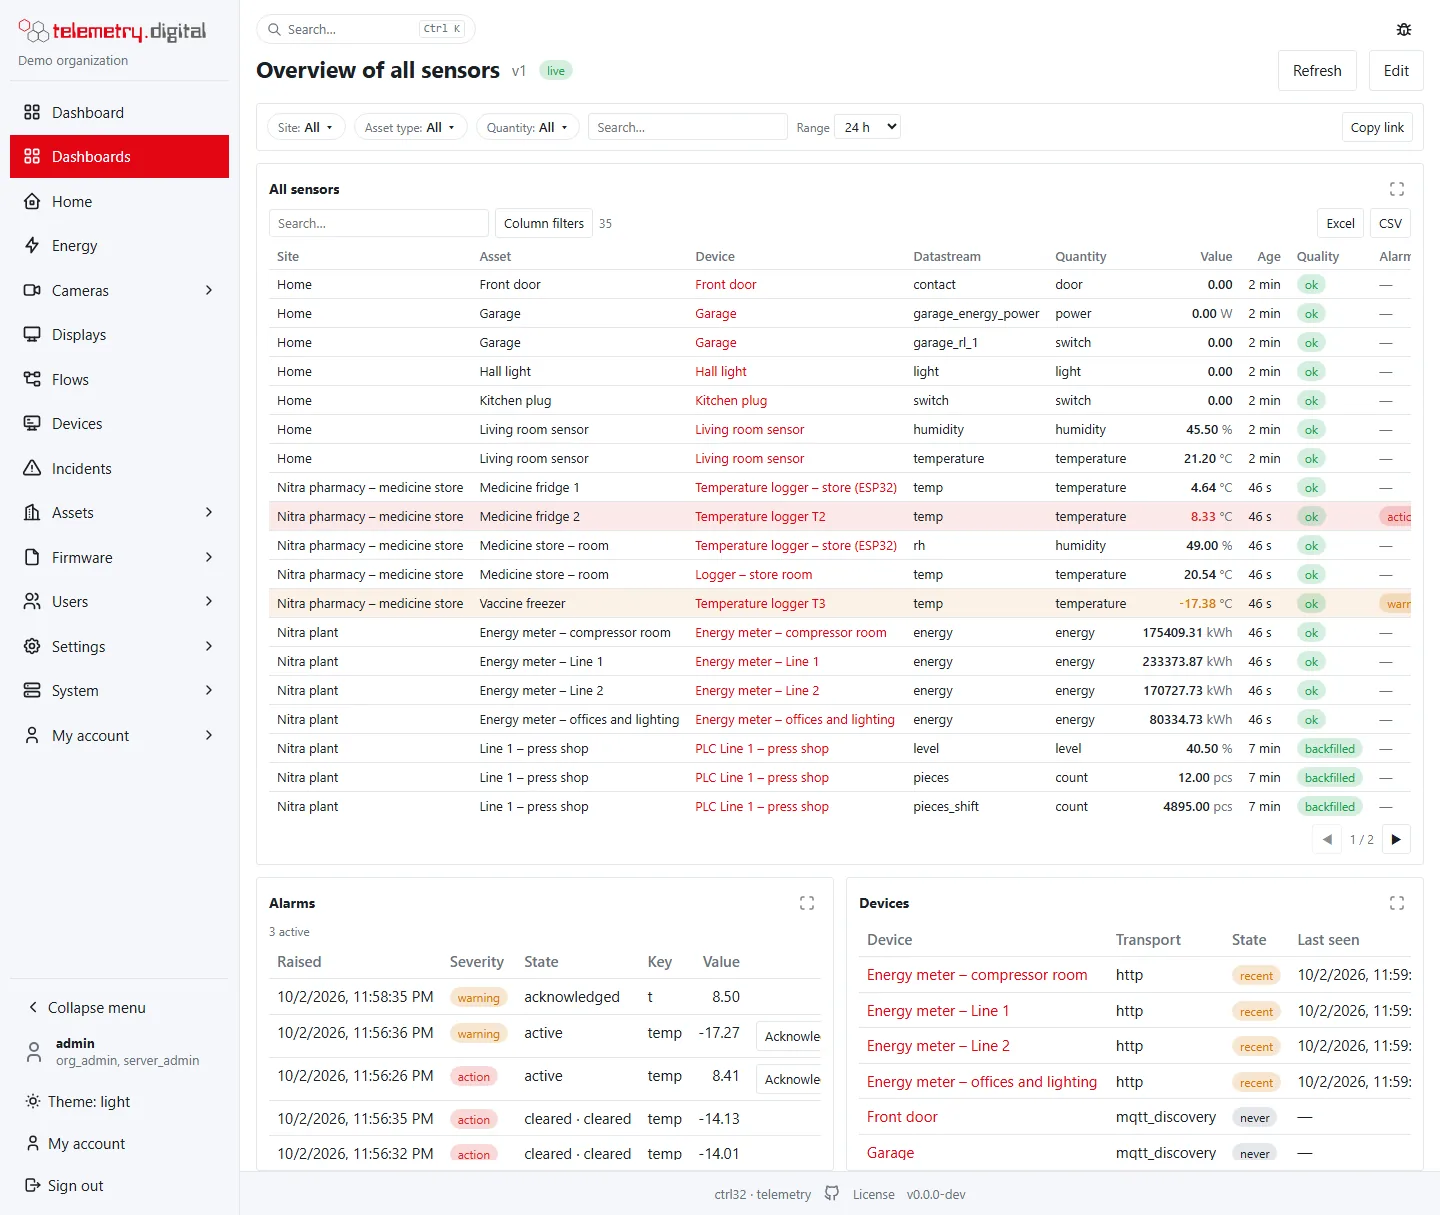
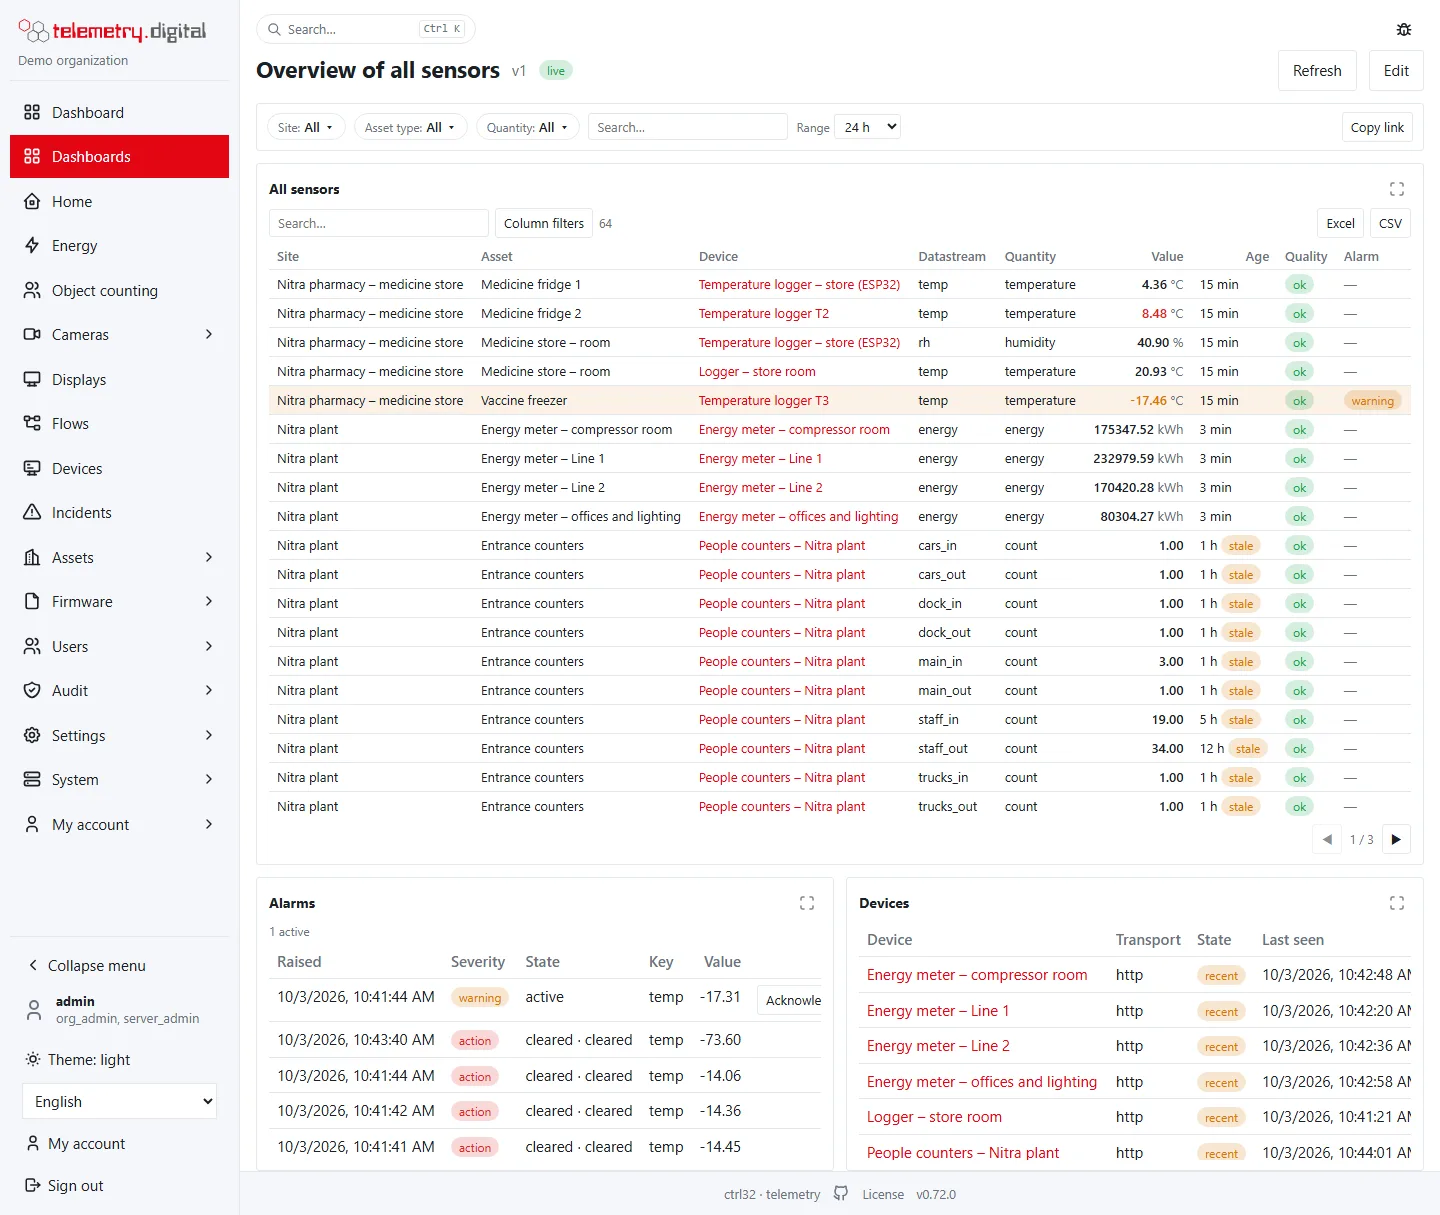
Docs 0.72: installing the object counting detector (--analytics, -Analytics, self-check), annotations in dashboard charts and on public links, stale values and the expected interval, overview labels as words

diff --git a/docs/telemetry/object-counting/cameras.md b/docs/telemetry/object-counting/cameras.md
@@ -9,7 +9,7 @@ The server finds people and vehicles in the picture of a camera and counts them 
 that you draw on the picture. It works with any camera the server receives — RTSP (H.264, H.265, MJPEG), HTTP MJPEG,
 and cameras at remote sites behind the [relay](../video-nvr/remote-sites.md). No analytics of the camera is used.
 
-![The camera list of Object counting with the counting state, the number of lines and speed sections, the state and the analysed pictures per second of each camera](img/cameras.webp)
+![Counting with cameras: the Detector installation card (ready, ffmpeg, ONNX Runtime and both models found) above the camera list with the counting state, the number of lines and speed sections, the state and the analysed pictures per second of each camera](img/cameras.webp)
 
 ## Before you start
 
@@ -88,13 +88,64 @@ and a longer section make it better.
 ## Install the detector
 
 The server runs the detector in a separate worker process per camera: an unmodified **ffmpeg** decodes the picture,
-the **YOLOX** model finds people and vehicles through **ONNX Runtime** on the CPU. Install them and name them in
-[config.toml](../administration/config-reference.md):
+the **YOLOX** model finds people and vehicles through **ONNX Runtime** on the CPU. The installers set it up when you
+ask for it; it is off by default.
+
+```bash
+curl -fsSL https://portal.telemetry.digital/install.sh | sudo bash -s -- --analytics
+```
+
+```powershell
+.\install.ps1 -Analytics
+```
+
+On a server that is already installed the option adds only the detector and restarts the service; your
+configuration, data and passwords stay. The installer downloads each part from its official release, checks its
+SHA-256 against the value written in the installer, stores its licence next to it, writes the `[analytics]` section
+of [config.toml](../administration/config-reference.md) and runs the self-check. None of these parts is shipped with
+the product.
+
+| Part | Version | Licence | Linux | Windows |
+|---|:---:|:---:|---|---|
+| ffmpeg, LGPL build | 8.1.2 | LGPL-3.0 | `/opt/ctrl32-telemetry/analytics` | `C:\Program Files\ctrl32-telemetry\analytics` |
+| ONNX Runtime, CPU | 1.30.0 | MIT | `/opt/ctrl32-telemetry/analytics` | `C:\Program Files\ctrl32-telemetry\analytics` |
+| YOLOX nano and tiny models | 0.1.1rc0 | Apache-2.0 | `/var/lib/ctrl32-telemetry/models` | `C:\ProgramData\ctrl32-telemetry\models` |
+
+It downloads about 90 MB on Linux and 180 MB on Windows and needs about 200 MB of disk. Linux on x86-64 and on ARM64
+(for example a Raspberry Pi 5) and Windows on x64 are supported; 32-bit ARM servers (an older Raspberry Pi OS)
+cannot run the detector.
+
+!!! note "Why not the ffmpeg package of the distribution"
+    The `ffmpeg` packages of Debian and Ubuntu are GPL builds. The detector uses an unmodified LGPL build as a separate
+    program, so the Linux installer downloads the same LGPL build as on Windows. With `--analytics --ffmpeg apt` it
+    uses the distribution's package anyway; the self-check then shows it as a GPL build.
+
+### Check the installation
+
+*Object counting → Cameras* and *System → Server* show **Detector installation**: ffmpeg with its version and whether
+it is an LGPL build, ONNX Runtime with its version, and each model — found, checked against its SHA-256 and run once
+on an empty picture. **Check again** repeats the check (the server keeps a result for 5 minutes). A missing or broken
+part says what to do; server administrators also see where the server looked for it.
+
+![The Detector installation card: ready, cameras can count on this server; ffmpeg found with its version and the LGPL badge, ONNX Runtime found with its version, the nano and tiny models found with the time of a test inference](img/detector-check.webp)
+
+The same check runs on the command line, for example after an update:
+
+```bash
+sudo ctrl32-telemetry analytics-worker -selfcheck -config /etc/ctrl32-telemetry/config.toml
+```
+
+It prints one line per part and ends with *Object counting on cameras: ready* (exit code 0) or *NOT ready* (exit
+code 1).
+
+### By hand
+
+Without the installer, install the three parts yourself and name them in `config.toml`:
 
 ```toml
 [analytics]
-ffmpeg = "/usr/bin/ffmpeg"
-onnxruntime = "/opt/onnxruntime/lib/libonnxruntime.so"
+ffmpeg = "/opt/ctrl32-telemetry/analytics/ffmpeg-n8.1.2-50-g1a748fe2cd-lgpl/bin/ffmpeg"
+onnxruntime = "/opt/ctrl32-telemetry/analytics/onnxruntime-1.30.0/lib/libonnxruntime.so"
 model_nano = "/var/lib/ctrl32-telemetry/models/yolox_nano.onnx"
 model_tiny = "/var/lib/ctrl32-telemetry/models/yolox_tiny.onnx"
[1 lines of base64/hex data omitted]
@@ -105,15 +156,15 @@ max_cameras = 4
 
 | Key | Meaning |
 |---|---|
-| `ffmpeg` | the ffmpeg program — an **LGPL build** (no GPL options), from your distribution or an "lgpl" build; it runs as a separate program |
+| `ffmpeg` | the ffmpeg program — an **LGPL build** (no GPL options); it runs as a separate program |
 | `onnxruntime` | the ONNX Runtime library, version 1.17 or newer, CPU package for 64-bit Linux, Windows or macOS (`onnxruntime.dll` on Windows) |
 | `model_nano`, `model_tiny` | the YOLOX nano and tiny models (`yolox_nano.onnx`, `yolox_tiny.onnx`, YOLOX release 0.1.1rc0, Apache-2.0) |
 | `nano_sha256`, `tiny_sha256` | optional: the worker refuses any other file |
 | `threads` | inference threads per camera (default 1) |
 | `max_cameras` | cameras analysed at the same time (default 4); more cameras show *over the camera limit* |
 
-Restart the server after changing the file. 32-bit ARM servers (for example an old Raspberry Pi) cannot run the
-detector.
+Restart the server after changing the file. Running the installer with the option again keeps `threads` and
+`max_cameras`.
 
 ## CPU and accuracy
 

diff --git a/docs/telemetry/devices/data-model.md b/docs/telemetry/devices/data-model.md
@@ -76,7 +76,7 @@ meter, the state of a door.
 | Kind | gauge | gauge, counter, state, event | how the value behaves (see below) |
 | Quantity | — | required, at most 64 characters, stored in lower case | what is measured; suggestions: temperature, humidity, energy_active_import, power_active, pressure, state, co2 |
 | Unit | — | at most 16 characters | shown after the value, for example `°C`, `kWh`, `%` |
-| Expected interval (gap detection) | — | at most 32 characters, a duration such as `5 minutes`, `30 seconds`, `1 hour` | how often a value should arrive; empty means no gap detection |
+| Expected interval (gap detection) | — | at most 32 characters, a duration such as `5 minutes`, `30 seconds`, `1 hour` | how often a value should arrive; empty means no gap detection and no *stale* marking |
 | Required accuracy | — | any number | the accuracy the measurement must have, recorded with the datastream |
 | Reason (audit trail) | — | required | why you made the change |
 
@@ -90,7 +90,8 @@ meter, the state of a door.
 !!! tip "The expected interval makes missing data visible"
     With an expected interval, data that does not arrive becomes a visible **gap** in charts and reports instead of a
     silent hole. A gap opens when no value has arrived for 1.5 × the expected interval, and closes when data resumes
-    or is backfilled. Set it to the device's reporting period.
+    or is backfilled, and the last value is shown as *stale* after the same time. Set it to the device's reporting
+    period.
 
 ### Datastream detail
 
@@ -117,9 +118,16 @@ not an alarm limit: a value outside it cannot be a real reading, so it is stored
 | backfilled | a value replayed from the device's offline buffer (`bf: 1`) |
 | clock_suspect | the device's time stamp was more than 5 minutes in the future |
 | sensor_fault | the device marked the value as faulty (`fault` in its telemetry), or the value is outside the datastream's physical range |
-| out_of_range | reserved; not set by this version |
-| stale | reserved; not set by this version |
+| out_of_range | set by [object counting](../object-counting/index.md): more departures than arrivals would make an occupancy negative, so the stored value is kept at zero and flagged |
+| stale | never stored: the **last value** is shown as *stale* when it is older than 1.5 × the datastream's expected interval |
 | simulated | a simulated value |
+
+**Stale values.** With an expected interval, the last value of a datastream that stopped sending is shown as *stale*
+on the device page (*Telemetry* tab), in dashboard widgets, in overview tables and on public links, so an old number
+is not taken for a current one. It uses the same tolerance as gap detection (1.5 × the expected interval) and is
+worked out when the value is shown: the stored measurement keeps its own quality, and a value marked *sensor_fault*
+keeps that mark. Without an expected interval a value never becomes stale. To be notified when data stops, use the
+alarm rule *comm_loss* (see [Alarm rules](#alarm-rules-limits)).
 
 A value has one quality. *sensor_fault* wins over the others, because the value is not a reading at all; a
 backfilled value from a faulty sensor still counts as backfilled for gaps and retrospective alarms. Values with

diff --git a/docs/telemetry/dashboards/widgets-charts.md b/docs/telemetry/dashboards/widgets-charts.md
@@ -27,6 +27,7 @@ One or more datastreams over time, as lines, areas, steps, bars or points, with 
 | Action limit (high) | number | — | any |
 | Show min–max band | checkbox | on | — |
 | Show legend | checkbox | on | — |
+| Show annotations | checkbox | on | — |
 
 The **Time** tab sets a fixed window, the aggregation, the interval and viewer filters; the **Series** tab sets per
 datastream the label, colour, unit, decimals, style, axis (left or right), points, fill and visibility, plus the
@@ -39,6 +40,11 @@ legend position and legend values — see [time window](widgets.md).
 - **Min–max band**: with automatic or average aggregation, a light band shows the minimum and maximum of each bucket.
 - **Doubtful readings** (quality other than *ok* and *backfilled*) are marked with orange dots; values replayed
   from a device's offline buffer count as good data, as in the period tables.
+- **Annotations** of the shown datastreams (comments on a value or a period, added on the
+  [device page](../devices/device-page.md#annotations)) are drawn on the chart: a period as an amber band, one moment
+  as a dashed amber line with a small flag. Moving the pointer over one shows its category and text, and with several
+  series the series it belongs to; the text also appears in the line under the chart. Annotations of a hidden series
+  are hidden with it. Only users who may read the datastreams see them; turn them off with *Show annotations*.
 - **Legend**: a click on a series hides or shows it until the widget reloads (at the next refresh or new value); to hide a
   series permanently use *Hidden* on the Series tab or the viewer filter *series*. With *Legend values* each entry shows
   min, max, avg, total or latest of the points shown.
@@ -46,6 +52,8 @@ legend position and legend values — see [time window](widgets.md).
   at that time (with the bucket's minimum and maximum).
 - The line under the legend names the window and the aggregation, for example *7 d · average/15 min*.
 - **Without data**: *no data in this range*.
+
+![A trend chart of two fridges over 7 days with an annotation marked by a dashed amber line and a flag; the line under the chart shows the values under the pointer and the annotation: maintenance, probe connector reseated after the fault alarm (Fridge 2)](img/chart-annotations.webp)
 
 ## Bars over time
 

diff --git a/docs/telemetry/getting-started/install-linux.md b/docs/telemetry/getting-started/install-linux.md
@@ -57,12 +57,26 @@ When the installer finishes, the server's address shows the sign-in page:
 | `--db docker` or `--db apt` | how PostgreSQL is installed (default: Docker if available, otherwise packages) |
 | `--db-port N` | host port of the Docker PostgreSQL (default 5432, or 5433 when 5432 is taken) |
 | `--no-start` | install everything but do not start the service |
+| `--analytics` | also install the detector for [counting people and vehicles with cameras](../object-counting/cameras.md#install-the-detector): ffmpeg (LGPL build), ONNX Runtime and the YOLOX models, downloaded from their official releases and checked by SHA-256; off by default |
+| `--ffmpeg apt` | with `--analytics`: use the distribution's ffmpeg package (a GPL build) instead of the LGPL build |
 
 Example with demo data:
 
 ```bash
 curl -fsSL https://portal.telemetry.digital/install.sh | sudo bash -s -- --domain telemetry.example.com --demo
 ```
+
+## Add object counting later
+
+On a server that is already installed, `--analytics` adds only the detector for object counting on cameras and
+restarts the service; the configuration, data and passwords stay:
+
+```bash
+curl -fsSL https://portal.telemetry.digital/install.sh | sudo bash -s -- --analytics
+```
+
+It ends with the self-check of the detector (ffmpeg, ONNX Runtime and the models with their versions) and tells you
+how to switch counting on for a camera. See [Install the detector](../object-counting/cameras.md#install-the-detector).
 
 ## Configuration
 

diff --git a/docs/telemetry/dashboards/filters-and-overviews.md b/docs/telemetry/dashboards/filters-and-overviews.md
@@ -171,12 +171,13 @@ the dashboard filters.
 | Device | the device that feeds the datastream, a link to its page |
 | Value | the latest value with its unit |
 | Measured, Age | when the latest value was measured; *Age* adds a *stale* badge when it is older than *Stale after* |
-| Quality | the quality of the latest value |
+| Quality | the quality of the latest value; *stale* when it is older than 1.5 × the datastream's expected interval (see [Data model](../devices/data-model.md#quality-of-a-value)) |
 | Alarm | the highest severity of the active alarms (✓ when acknowledged) |
 | Limits | the warning and action limits of the high and low alarm rules, for example `2 … 8` or `≤ 8` |
 | Minimum, Maximum, Change | over the range of the widget; the change of a meter is its consumption |
 
-- *Stale after: auto* is twice the expected interval of the datastream, at least 2 minutes, or 1 hour without one.
+- *Stale after: auto* follows the datastream's expected interval: the value is stale when it is older than 1.5 × the
+  interval, as on the device page; without an expected interval after 1 hour.
 - With **Group rows by** the rows are sorted into groups with a header line (name, number of rows and, with *Totals
   of change per group*, the sum of their change); the grouped column is not repeated.
 - **Highlight rows**: *alarms* tints the rows with an active alarm (red for action, amber for warning); *limits*

diff --git a/docs/telemetry/getting-started/install-windows.md b/docs/telemetry/getting-started/install-windows.md
@@ -41,6 +41,15 @@ Reachable from anywhere through a Cloudflare Tunnel — no open ports, no certif
 .\install.ps1 -Domain cameras.example.com -CloudflareToken <token>
 ```
 
+Object counting on cameras: `-Analytics` also installs the detector — ffmpeg (LGPL build), ONNX Runtime and the YOLOX
+models, downloaded from their official releases and checked by SHA-256 (see
+[Install the detector](../object-counting/cameras.md#install-the-detector)). On a server that is already installed it
+adds only these parts and restarts the service:
+
+```powershell
+.\install.ps1 -Analytics
+```
+
 ## What the installer does
 
 1. Creates `C:\Program Files\ctrl32-telemetry` (program, Typst, PostgreSQL) and `C:\ProgramData\ctrl32-telemetry`
@@ -62,6 +71,7 @@ Then open `http://<server>:8080` in a browser — the sign-in page appears:
 |---|---|
 | `-DryRun` | print the plan only, change nothing |
 | `-NoStart` | install but do not start |
+| `-Analytics` | also install the detector for object counting on cameras (off by default) |
 | `-Uninstall` | remove the services and firewall rules; the data stays |
 | `-Uninstall -Purge` | also delete the data |
 

diff --git a/docs/telemetry/administration/system-reference.md b/docs/telemetry/administration/system-reference.md
@@ -86,6 +86,7 @@ devices reconnect within seconds; requires the agent).
 | Database | server, PostgreSQL version, size, number of organizations, users, devices, sites, stored reports, pending commands |
 | Storage and files | report and firmware directories (with the firmware size limit), Typst, log file and level, gap check interval, links to `/metrics` and `/.well-known/security.txt` |
 | Components | versions of the parts installed on the host (with the agent) |
+| Object counting | the self-check of the detector for object counting on cameras: ffmpeg (version, LGPL or GPL build), ONNX Runtime (version) and the nano and tiny models (SHA-256, test inference), with **Check again**; see [Install the detector](../object-counting/cameras.md#check-the-installation) |
 
 **Services and containers** lists the systemd units and Docker containers with their state and whether they start at
 boot. The agent, WireGuard and the reverse proxy have a **Restart** button (each asks for a reason).

diff --git a/docs/telemetry/dashboards/dashboard-editor.md b/docs/telemetry/dashboards/dashboard-editor.md
@@ -225,6 +225,10 @@ What a public link shows and allows:
 - **No exports**: period tables show no Excel, CSV or PDF buttons.
 - **No cameras**: camera widgets show *Cameras are not shown on public dashboards*; camera pins are drawn without
   state and cannot be clicked.
+- **No annotations** unless you allow them: annotations are internal notes, so the charts of a public link and of
+  [displays](displays.md) show none. With *Show annotations in the charts of the public link and on displays* in
+  *Dashboard settings* (off by default) they show the time, category and text of the annotations of the bound
+  datastreams, never who wrote them.
 
 On a public link the *Alarms* list and the *Alarm count* widget show only the alarms of the datastreams bound by
 the dashboard's widgets, and only when the dashboard shows alarms at all; there is no *Acknowledge* button. A link that was regenerated or disabled, or whose dashboard was retired, shows *This link is no longer valid*.

diff --git a/docs/telemetry/devices/device-page.md b/docs/telemetry/devices/device-page.md
@@ -155,7 +155,7 @@ value, and how it changed.
 | Key | the key the device publishes; datastreams also show the asset and the quantity |
 | Source | see above |
 | Latest value | the newest value with its unit; texts and objects are shown as they came |
-| Quality | *ok*, or the quality of the value, for example *sensor fault* (see [Data model](data-model.md#quality-of-a-value)) |
+| Quality | *ok*, or the quality of the value, for example *sensor fault*, or *stale* when the last value is older than 1.5 × the expected interval (see [Data model](data-model.md#quality-of-a-value)) |
 | Last value | how long ago (for example "4 minutes ago") and the exact time below |
 | Last 24 h | a sparkline: averages per 30 minutes of the last 24 hours |
 | Min, Max, Average | over the range chosen in *Statistics over*; values marked *sensor fault* are counted (⚠ with their number) but left out |

diff --git a/docs/telemetry/administration/config-reference.md b/docs/telemetry/administration/config-reference.md
@@ -171,7 +171,8 @@ See [Recording and storage](../video-nvr/recording.md) and [Remote sites](../vid
 ## [analytics]
 
 The detector of [object counting](../object-counting/cameras.md) on camera pictures. Without `onnxruntime` and a model
-the cameras show *not installed*; counting with sensors works without it.
+the cameras show *not installed*; counting with sensors works without it. The installers write this section with
+`--analytics` (Linux) or `-Analytics` (Windows); see [Install the detector](../object-counting/cameras.md#install-the-detector).
 
 | Key | Type | Default | Meaning |
 |---|:---:|:---:|---|
